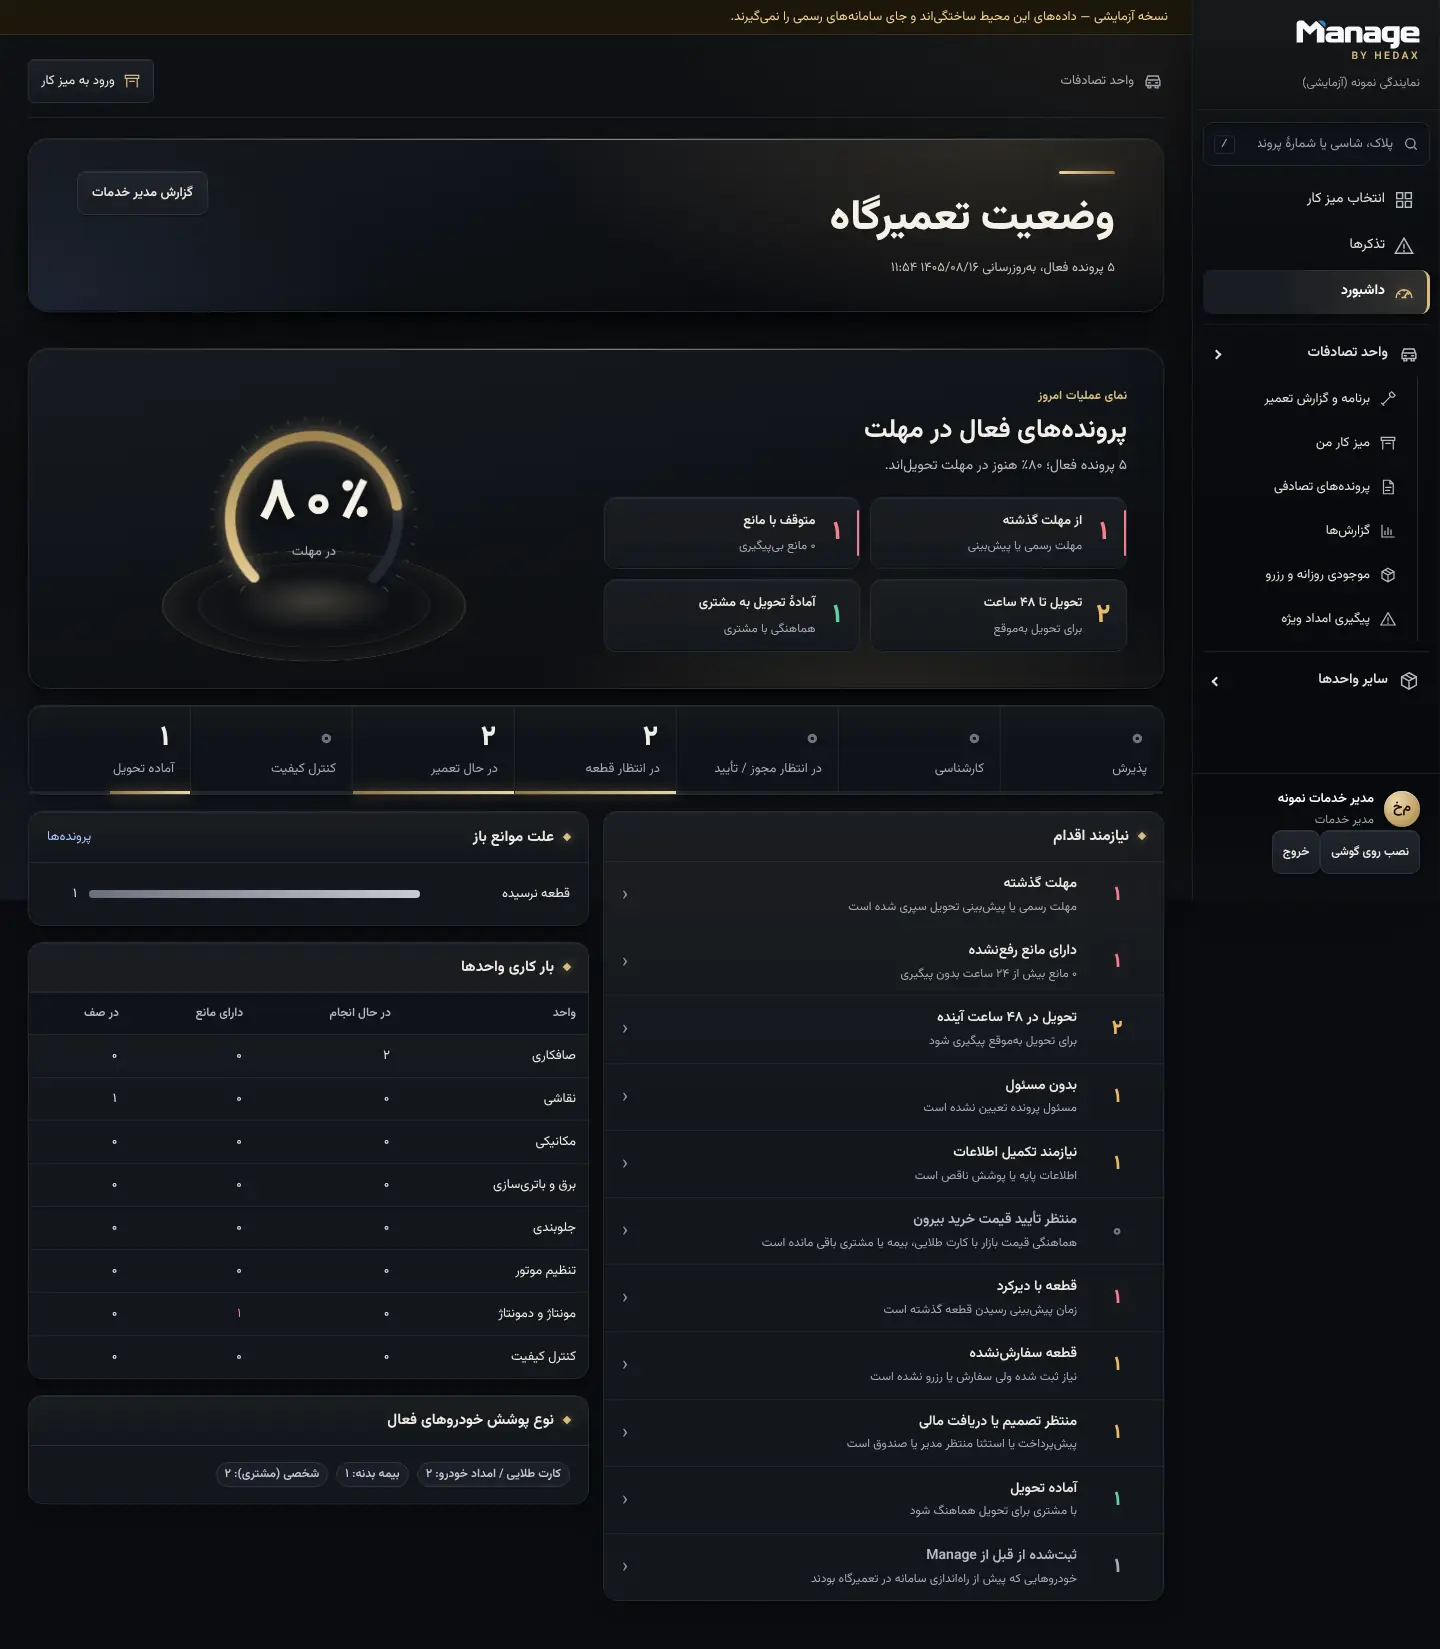
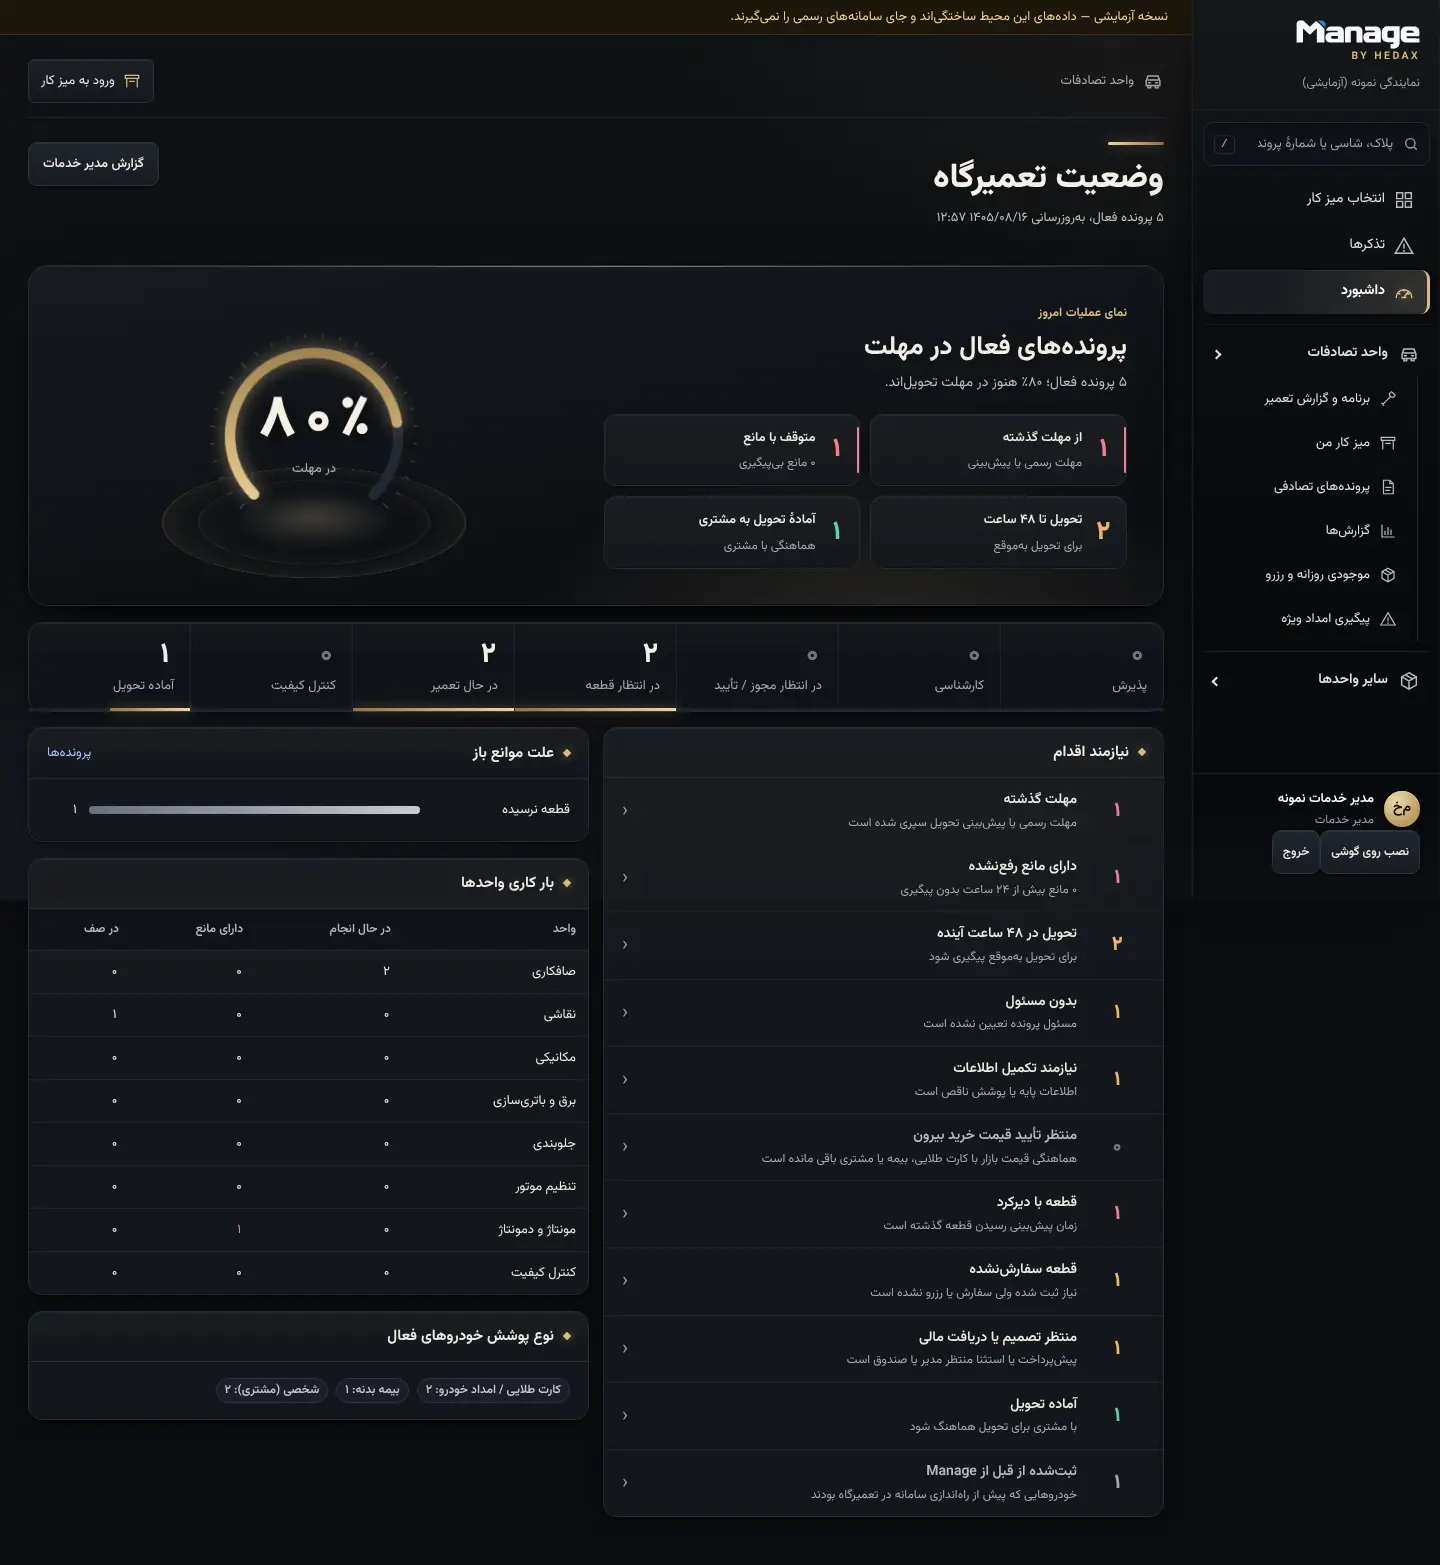
HEDAX Signature: one focal surface on the dashboard
Review round 2. The dashboard stacked two heavy plates (welcome band and
operations instrument). When the instrument follows it, the welcome band
is now a flat page heading (CSS :has, Signature theme only): same title,
timestamp and buttons, about 85 px less before the operational figures.
Sign-in, cases and parts workbench were reviewed and left unchanged.

Lint, typecheck, build, docs check, Playwright 43 + 4 and the evidence
suite (0 overflow, 0 contrast failures) pass. Screens and docs updated.

Claude-Session: https://claude.ai/code/session_017zEkfp1hKmQ39qUCyt2uU1

diff --git a/apps/web/app/signature.css b/apps/web/app/signature.css
@@ -336,6 +336,19 @@ html[data-ui='signature'] .entry-welcome::before {
 }
 html[data-ui='signature'] .entry-welcome h1 { color: #f6f1e7; }
 html[data-ui='signature'] .entry-welcome p { color: #c4c0b8; }
+/* Dashboard: the instrument below is the hero, so the welcome band becomes a flat
+   page heading instead of a second heavy plate (one focal surface per view). */
+html[data-ui='signature'] .entry-welcome:has(+ .sx-instrument) {
+  background: none;
+  border: 0;
+  box-shadow: none;
+  border-radius: 0;
+  overflow: visible;
+  padding: 4px 0 0;
+}
+html[data-ui='signature'] .entry-welcome:has(+ .sx-instrument)::before { content: none; }
+html[data-ui='signature'] .entry-welcome:has(+ .sx-instrument) h1 { font-size: clamp(24px, 2.4vw, 34px); margin-block: 6px 4px; }
+html[data-ui='signature'] .entry-welcome:has(+ .sx-instrument) .entry-line { margin-block-end: 10px; }
 html[data-ui='signature'] .entry-line { background: linear-gradient(90deg, var(--sx-champagne-hi), var(--sx-champagne-deep)); box-shadow: 0 0 14px rgba(216, 187, 127, .5); }
 
 /* ------------------------------------------- 9. dashboard: stage rail & readouts */

diff --git a/docs/design/HEDAX_3D_HANDOVER_FA.md b/docs/design/HEDAX_3D_HANDOVER_FA.md
@@ -21,6 +21,14 @@
 
 همهٔ ۲۳ صفحهٔ فعال، بهاضافهٔ ورود، فعالسازی و بازیابی رمز، ظاهر تازه را میگیرند. کار اختصاصی (ترکیب تازه) روی ورود، پوستهٔ برنامه، داشبورد، میزهای کار و ایستگاه تعمیرکار انجام شده است. بقیه، یعنی پروندهها، قطعات، کارگاه، کارکنان، تذکرها، گزارشها و اطلاعات پایه، در سطح سامانه بازطراحی شدهاند: رنگ، سطح، کنترلها، جدولها، وضعیتها و پنجرهها. چیدمان و ترتیب کارشان عمداً همان قبلی است تا کارکنان آموزش دوباره نخواهند. جدول کامل در [پیادهسازی](HEDAX_3D_IMPLEMENTATION.md) است.
 
+## بازبینی دوم (۱۶ آبان ۱۴۰۵)
+
+داشبورد، ورود، پروندهها و میز قطعات دوباره با طراحی HEDAX سنجیده شدند.
+
+- **تغییر کرد:** فقط داشبورد. نوار خوشآمد و «نمای عملیات» دو کادر سنگین پشتسرهم بودند. حالا نوار خوشآمد یک عنوان ساده است و «نمای عملیات» تنها کانون صفحه است. عنوان، زمان بهروزرسانی و دکمهها همان است و عددهای عملیاتی حدود ۸۵ پیکسل بالاتر آمدهاند.
+- **تغییر نکرد:** ورود، پروندهها و میز قطعات. هماهنگ و خوانا بودند و تغییر بیشتر فقط ریسک اضافه میکرد.
+- **آزمونها:** پس از تغییر همه دوباره موفق شدند.
+
 ## چه چیزی تغییر نکرد
 
 API، پایگاه داده، migration، مجوزها و نقشها، ورود و احراز هویت، قواعد مالی، مسیرها، دادهها، سرور، `.env`، `deploy/**` و `.github/**`. هیچ دکمه یا کاری حذف نشده و هیچ قابلیت ساختگی اضافه نشده است. چاپ همان ظاهر روشن قبلی را دارد.

diff --git a/docs/design/HEDAX_3D_QA.md b/docs/design/HEDAX_3D_QA.md
@@ -64,6 +64,14 @@ These are local headless measurements with small samples. They should be repeate
 5. LCP regression from the fade, as described above.
 6. The contrast scanner initially skipped plates and gradient buttons. Plates are now scanned, and the buttons got a solid `background-color` fallback.
 
+## Review round 2 — 2026-11-07
+
+Reviewed the dashboard, sign-in, case list and detail, and parts workbench against the design brief after PR #62 was opened. No reviewer comments yet; CI run 42358401074 green on `d890f2c`.
+
+- **Changed:** dashboard only. The welcome band and the operations instrument were two stacked heavy plates; the band is now a flat page heading when the instrument follows it (CSS `:has()`, Signature theme only). Same title, timestamp and buttons; about 85 px less vertical space before the operational figures; one focal surface per view.
+- **Unchanged on purpose:** sign-in, case list and detail, parts workbench. They are coherent and readable, and further changes would add risk without a clear benefit.
+- **Re-run after the change:** lint, typecheck, build, docs check pass; Playwright 43 passed + 4 passed; evidence 5/5, 0 overflow, 0 contrast failures, 0 animations under reduced motion; dashboard: no long tasks, worst frame 17 ms, CSS +0.4 KB.
+
 ## Not done or open
 
 - Live research browsing, real-device testing (Edge on Windows, iOS Safari, Android), and a screen-reader pass (NVDA/VoiceOver).

diff --git a/docs/TEST_REPORT.md b/docs/TEST_REPORT.md
@@ -19,6 +19,8 @@ Owner-approved release of PR #60, with no migration. [Release record](RELEASE_BA
 
 ## HEDAX Signature visual layer — 2026-11-07 — local green, **CI green**
 
+**Review round 2:** dashboard welcome band flattened when the instrument follows it (CSS only, Signature theme). Re-run: lint, typecheck, build, docs check pass; Playwright main 43 passed, daily 4 passed; evidence 5/5 (0 overflow, 0 contrast failures, no motion under reduced motion). CI to re-run on the PR.
+
 GitHub Actions run [42357733293](https://github.com/ali-hedax/manage-dealership-platform/actions/runs/42357733293) on PR #62, head `b79375a`: all six jobs succeeded (documentation and API inventory; dependency audit and secret scan; lint, typecheck, build, unit and integration tests; migrations and demo seed on PostgreSQL 16; Docker images and compose smoke test; Playwright end-to-end).
 
 Branch `feature/hedax-signature-3d-manage` from `main` `5cf9c72`. Visual-only change (theme layer, icons, dashboard instrument, pointer light). No API, schema or permission change. Synthetic data only. Full record: [design QA](design/HEDAX_3D_QA.md).
